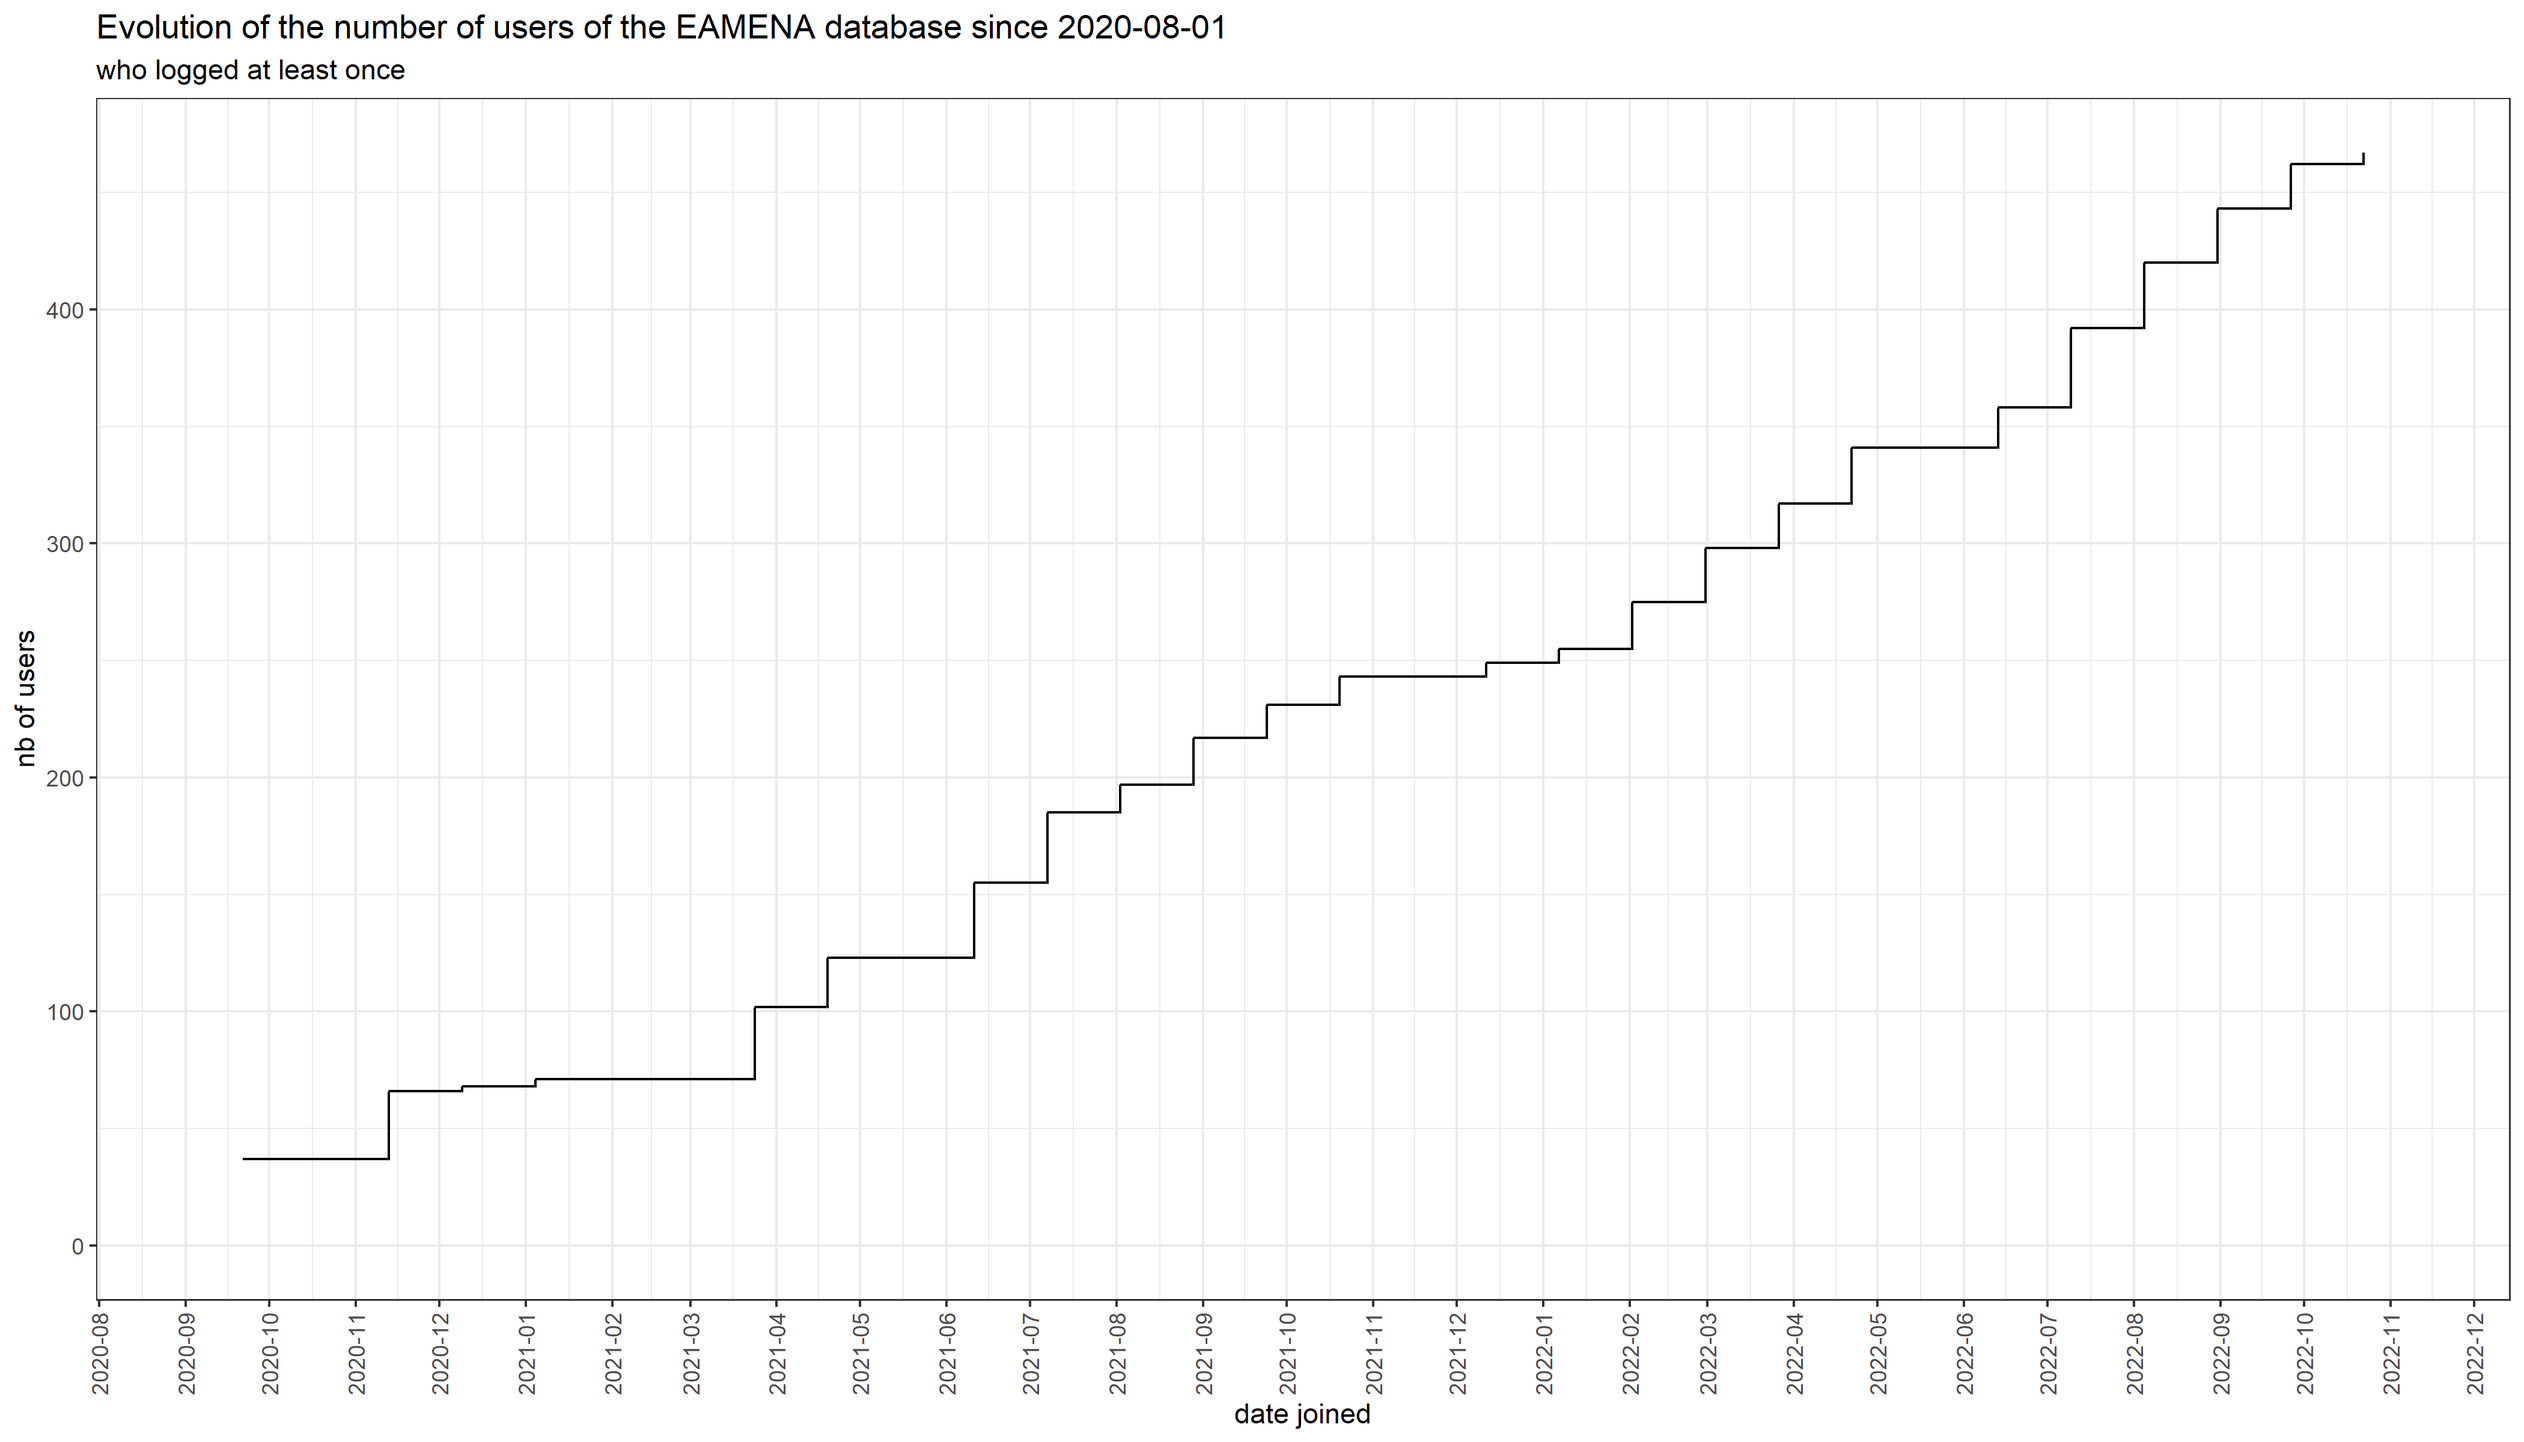
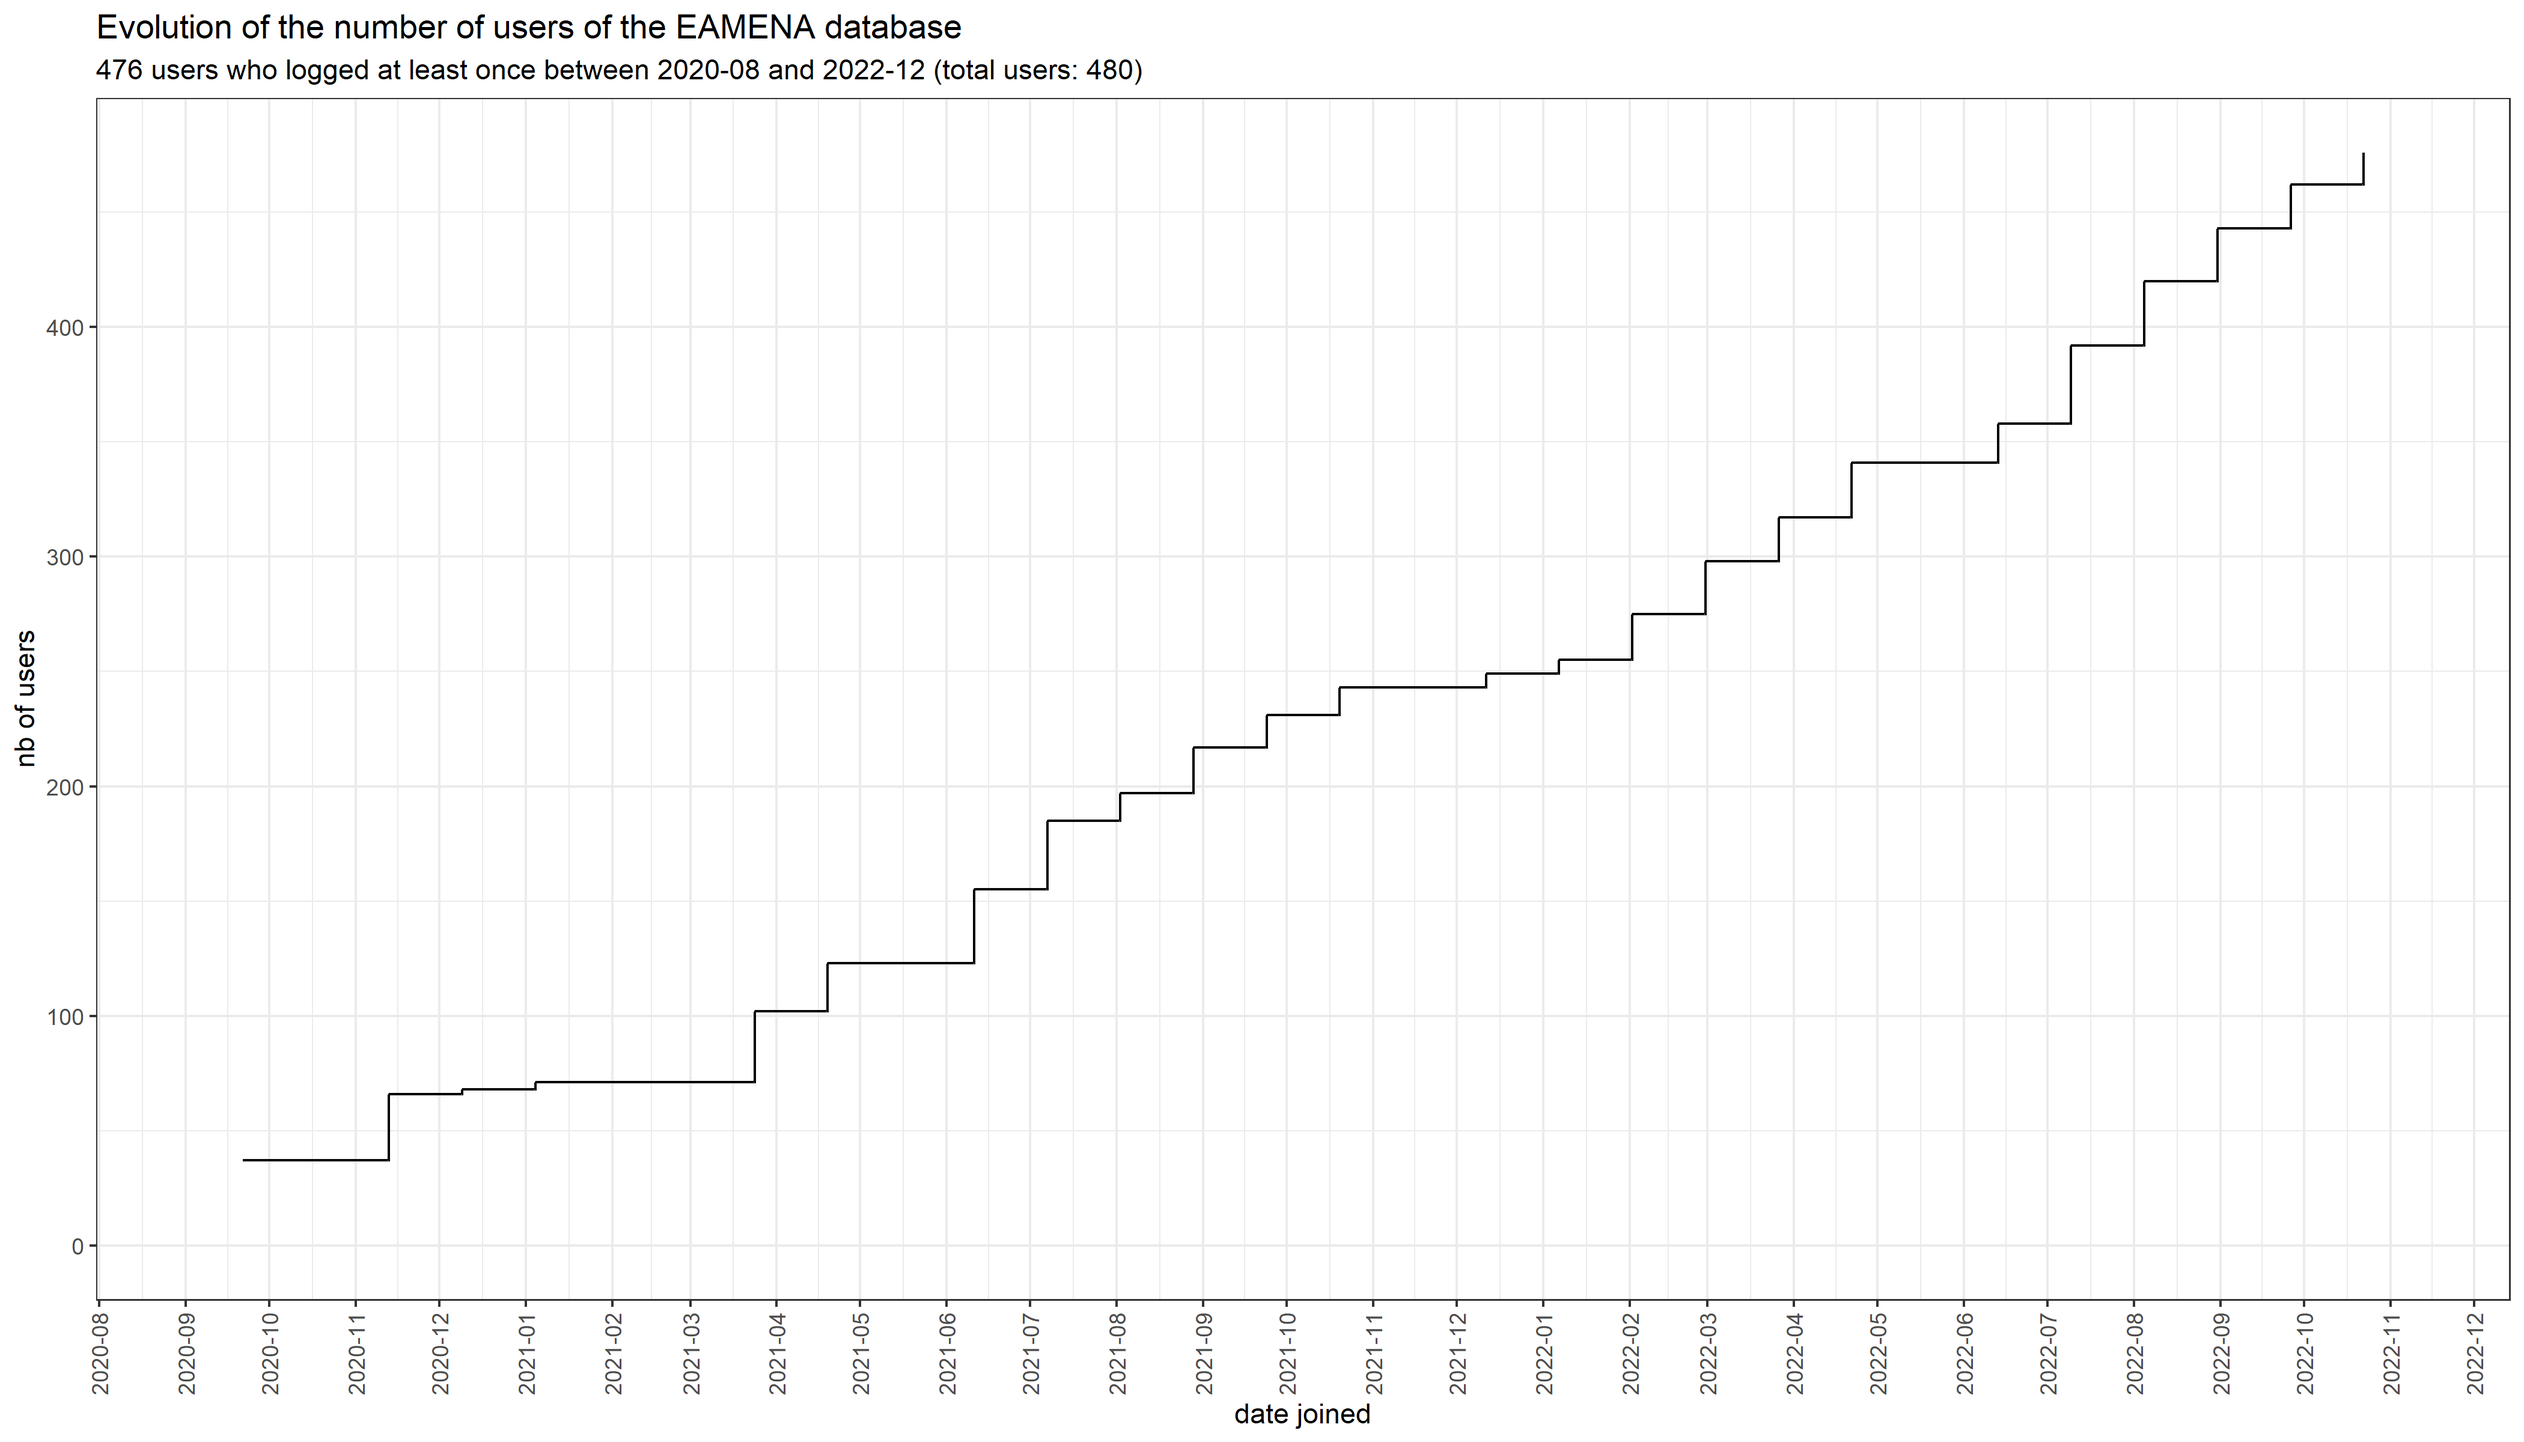
users

diff --git a/README.md b/README.md
@@ -659,14 +659,24 @@ The option `plot.g = T` gives this plot:
 
 Here we restrict the plot to dates after 2020-08-01 (option `date.after`). The other statistic calculated is the total number of users (minus those who have an account but have never logged in)
 
-The total number of users can be be restrict to an interval, adding 
+The total number of users can be be restrict to an interval (options `date.after` and `date.before`), for example limiting the count to the year 2022: 
+
+```
+d <- ref_users(db.con = my_con,
+               stat.name = "users_date_joined_2",
+               d = d,
+               date.after = "2022-01-01",
+               date.before = "2022-12-01",
+               plot.g = T,
+               export.plot.g = T,
+               fig.width = 14)
 
 ```
 
-```
+<p align="center">
+  <img alt="img-name" src="./results/users_date_joined_2.png" width="600">
+</p>
 
-
-On 03/11/2022, the total number of users is **466**.
 
 ```
 d$total_users
